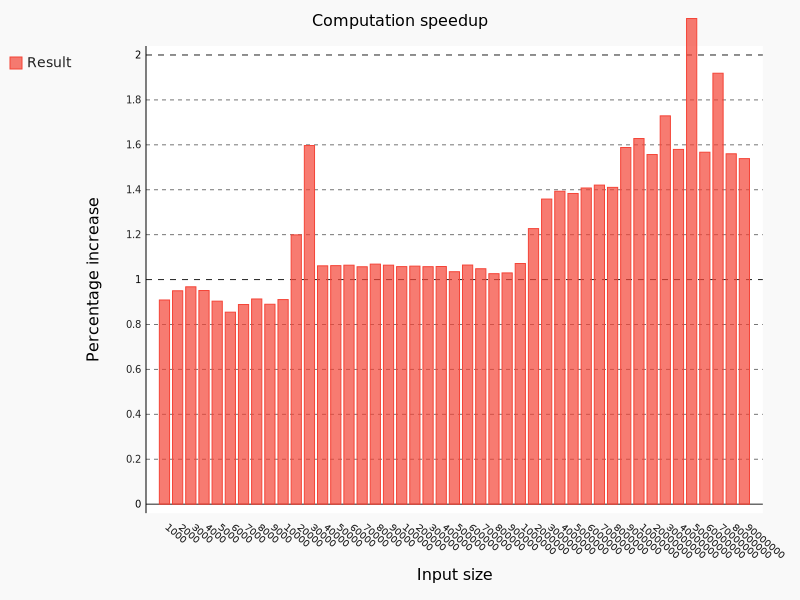
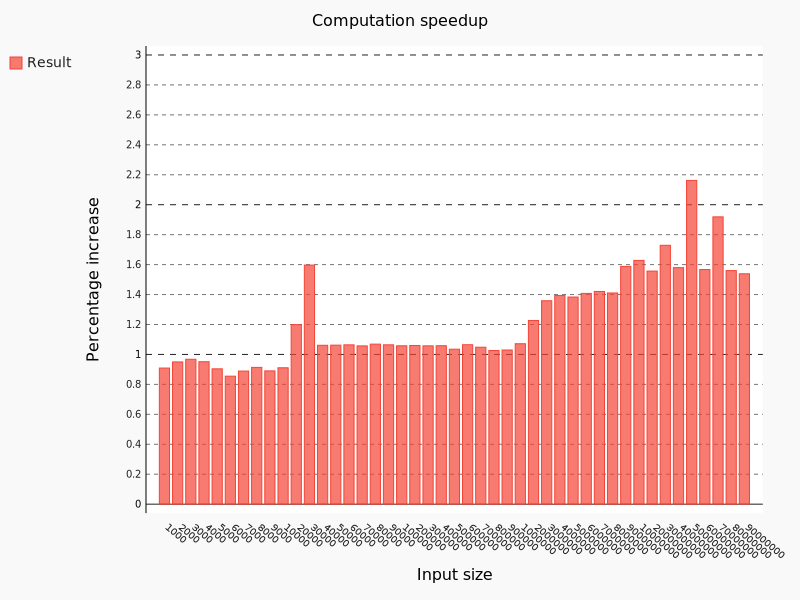
update

diff --git a/Graph creator/graph.py b/Graph creator/graph.py
@@ -37,6 +37,7 @@ comparing_Results = []
 for i in range(0, len(average_data)):
 	comparing_Results.append(average_data[i] / average_data_yes[i])
 
+print np.average(comparing_Results)
 
 line_chart = pygal.Line(logarithmic=True, x_label_rotation=40, x_title='Input size', y_title='Microseconds')
 line_chart.x_labels = map(str, sorted_keys)
@@ -98,9 +99,113 @@ line_chart.add("No scanomap", average_data)
 line_chart.add("Yes scanomap", average_data_yes)
 line_chart.render_to_png('../images/futhark-c-chart.png')
 
-line_chart = pygal.Bar(range=(1, 2), x_label_rotation=40, x_title='Input size', y_title='Percentage increase')
+line_chart = pygal.Bar(range=(1, 3), x_label_rotation=40, x_title='Input size', y_title='Percentage increase')
 line_chart.title = 'Computation speedup'
 line_chart.x_labels = map(str, sorted_keys)
 line_chart.add('Result', comparing_Results)
 line_chart.render()
 line_chart.render_to_png('../images/futhark-c-comparing.png')
+
+#Redix
+
+with open("times_without_scanomap.json") as json_file:
+    json_data = json.load(json_file)
+
+keys = []
+average_data = []
+
+for data in json_data:
+	 keys.append(int(data))
+
+sorted_keys = sorted(keys)
+
+for data in sorted_keys:
+	average_data.append(round(np.average(json_data[str(data)]), 2))
+
+with open("times_with_scanomap.json") as json_file:
+    json_data = json.load(json_file)
+
+keys_yes = []
+average_data_yes = []
+
+for data in json_data:
+	 keys_yes.append(int(data))
+
+sorted_keys_yes = sorted(keys)
+
+for data in sorted_keys_yes:
+	average_data_yes.append(round(np.average(json_data[str(data)]), 2))
+
+
+comparing_Results = []
+
+for i in range(0, len(average_data)):
+	comparing_Results.append(average_data[i] / average_data_yes[i])
+
+line_chart = pygal.Bar(range=(1,3),x_label_rotation=40, x_title='Input size', y_title='times increased')
+line_chart.title = 'Computation speedup'
+line_chart.x_labels = map(str, sorted_keys)
+line_chart.add('Result', comparing_Results)
+line_chart.render()
+line_chart.render_to_png('../images/radix-comparing.png')
+
+
+#Horizontal
+
+with open("times_no_fusion.json") as json_file:
+    json_data = json.load(json_file)
+
+keys = []
+average_noFusion_data = []
+
+for data in json_data:
+	 keys.append(int(data))
+
+sorted_keys = sorted(keys)
+
+for data in sorted_keys:
+	average_noFusion_data.append(round(np.average(json_data[str(data)]), 2))
+
+with open("times_no_hori.json") as json_file:
+    json_data = json.load(json_file)
+
+keys = []
+average_data_noHorri = []
+
+for data in json_data:
+	 keys.append(int(data))
+
+sorted_keys = sorted(keys)
+
+for data in sorted_keys:
+	average_data_noHorri.append(round(np.average(json_data[str(data)]), 2))
+
+with open("times_with_all.json") as json_file:
+    json_data = json.load(json_file)
+
+keys_yes = []
+average_data_all_yes = []
+
+for data in json_data:
+	 keys_yes.append(int(data))
+
+sorted_keys_yes = sorted(keys)
+
+for data in sorted_keys_yes:
+	average_data_all_yes.append(round(np.average(json_data[str(data)]), 2))
+
+
+comparing_Results_without_hori = []
+comparing_Results_with_hori = []
+
+for i in range(0, len(average_noFusion_data)):
+	comparing_Results_without_hori.append(average_noFusion_data[i] / average_data_noHorri[i])
+	comparing_Results_with_hori.append(average_noFusion_data[i] / average_data_all_yes[i])
+
+line_chart = pygal.Bar(range=(1,3),x_label_rotation=40, x_title='Input size', y_title='times increased')
+line_chart.title = 'Computation speedup'
+line_chart.x_labels = map(str, sorted_keys)
+line_chart.add('No Horizontal', comparing_Results_without_hori)
+line_chart.add('Horizontal', comparing_Results_with_hori)
+line_chart.render()
+line_chart.render_to_png('../images/horri-comparing.png')
